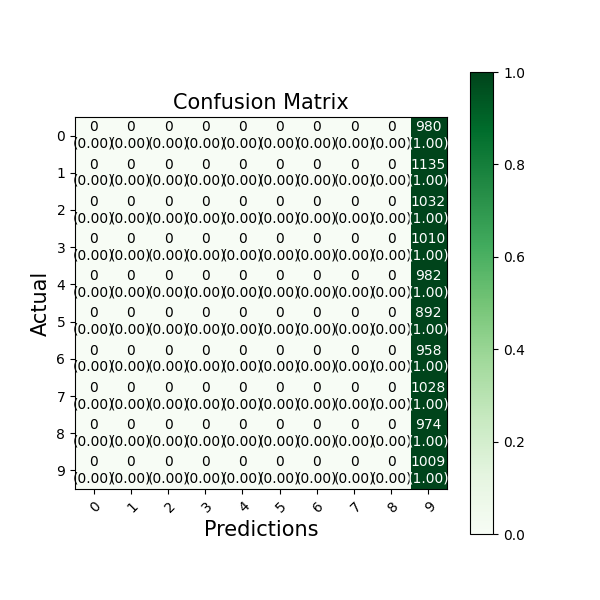
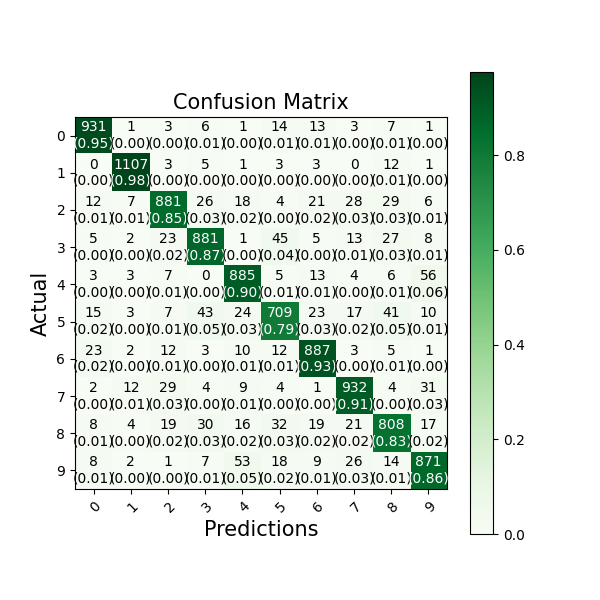
Finished last version of the bonus  task

diff --git a/tasks/task3/bonus/network.py b/tasks/task3/bonus/network.py
@@ -111,23 +111,15 @@ class Network:
             f_net = self.layers_array[0].forward(row)
             for i in range(1, len(self.layers_array)):
                 f_net = self.layers_array[i].forward(f_net)
-
                 if i == self.layers_num - 1:
-                    mx = -1 * sys.float_info.max
+                    mx = -1e10
                     idx = -1
                     for j in range(len(f_net)):
                         if f_net[j] > mx:
                             mx = f_net[j]
                             idx = j
-
                     actual = test['label'][count]
                     conf_matrix[actual][idx] += 1
-
-                    if idx == -1:
-                        print("idx didn't change")
-                        for k in range(len(f_net)):
-                            print(f_net[k])
-
                     if actual == idx:
                         cnt += 1
 

diff --git a/tasks/task3/bonus/backpropagation.py b/tasks/task3/bonus/backpropagation.py
@@ -6,8 +6,8 @@ from gui.gui_output import show_output
 def run_bonus_back(layers, neurons, epochs, active, bias, rate):
     train, test = prepare_data()
     print(train.head())
-    # train = train.iloc[:5000, :]
-    # test = test.iloc[:2000, :]
+    #train = train.iloc[:10000, :]
+    #test = test.iloc[:2000, :]
     network1 = Network(rate, epochs, active, bias, layers, neurons)
     network1.learning(train)
     mat, classes, acc = network1.testing(test)

diff --git a/tasks/task3/bonus/neuron.py b/tasks/task3/bonus/neuron.py
@@ -6,7 +6,7 @@ def activation_function(activation_choice, result):
     if activation_choice == 1:
         return 1 / (1 + np.exp(-result))
     else:
-        return (1 - np.exp(-result)) / (1 + np.exp(-result))
+        return np.tanh(result)
 
 
 class Neurons:

diff --git a/tasks/task3/bonus/preprocessing.py b/tasks/task3/bonus/preprocessing.py
@@ -5,7 +5,7 @@ def normalize(df):
     labels = df['label'].tolist()
     df = df.drop('label', axis=1)
     # Normalization
-    df = (df - df.mean()) / df.std()
+    df = df / 255
     df.insert(0, 'label', labels)
     return df
 

diff --git a/tasks/task3/bonus/main.py b/tasks/task3/bonus/main.py
@@ -2,4 +2,6 @@ from task3.bonus.backpropagation import run_bonus_back
 from gui.gui_input import GUI
 
 # gui = GUI(task=4)
-run_bonus_back(3, [32, 16, 8], 10, 2, 1, 0.01)
+run_bonus_back(2, [32, 16], 10, 1, 1, 0.01)
+
+
